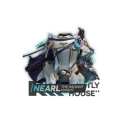
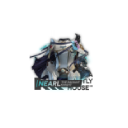
遗物图像outline调整

Changed region(s): [[0.1562, 0.1875, 0.7812, 0.7812]]

diff --git a/src/main/java/nearlmod/relics/EmergencyCallBook.java b/src/main/java/nearlmod/relics/EmergencyCallBook.java
@@ -14,7 +14,7 @@ public class EmergencyCallBook extends CustomRelic {
     public static final String NAME = relicStrings.NAME;
     public static final String[] DESCRIPTIONS = relicStrings.DESCRIPTIONS;
     public static final Texture IMG = new Texture("images/relics/emergencycallbook.png");
-    public static final Texture IMG_OUTLINE = new Texture("images/relics/emergencycallbook.png");
+    public static final Texture IMG_OUTLINE = new Texture("images/relics/emergencycallbook_p.png");
     public EmergencyCallBook() {
         super(ID, IMG, IMG_OUTLINE, RelicTier.RARE, LandingSound.FLAT);
         counter = 0;

diff --git a/src/main/java/nearlmod/relics/BackupEquipment.java b/src/main/java/nearlmod/relics/BackupEquipment.java
@@ -19,7 +19,7 @@ public class BackupEquipment extends CustomRelic {
     public static final String NAME = relicStrings.NAME;
     public static final String[] DESCRIPTIONS = relicStrings.DESCRIPTIONS;
     public static final Texture IMG = new Texture("images/relics/backupequipment.png");
-    public static final Texture IMG_OUTLINE = new Texture("images/relics/backupequipment.png");
+    public static final Texture IMG_OUTLINE = new Texture("images/relics/backupequipment_p.png");
     public BackupEquipment() {
         super(ID, IMG, IMG_OUTLINE, RelicTier.COMMON, LandingSound.FLAT);
     }
